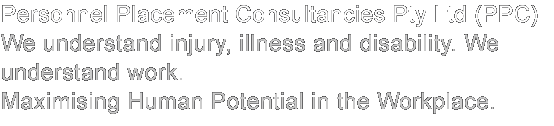
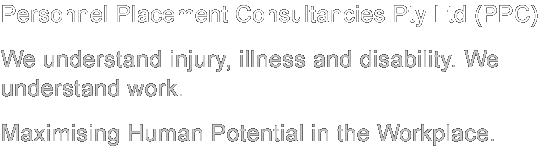
Updated homepage intro copy

diff --git a/app/styles/components/_layout.scss b/app/styles/components/_layout.scss
@@ -87,7 +87,7 @@
 			
 			.qualityendorsedlogo {
 				position: absolute;
-				top: 425px;
+				top: 455px;
 				left: 40px;
 			}
         /* END MAIN */
